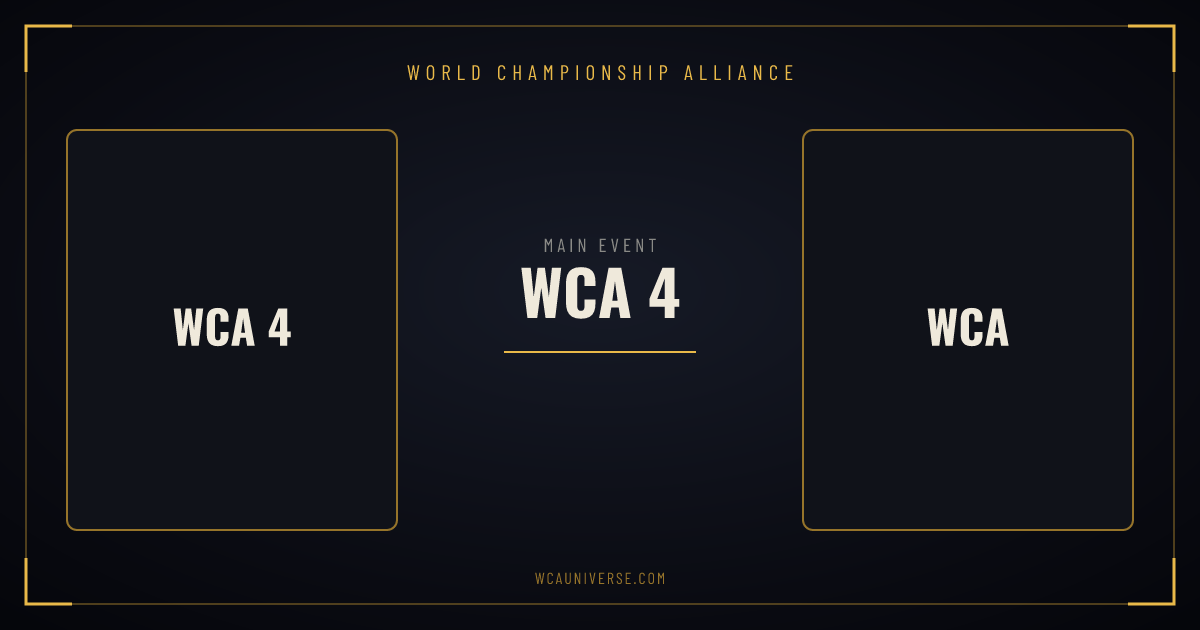
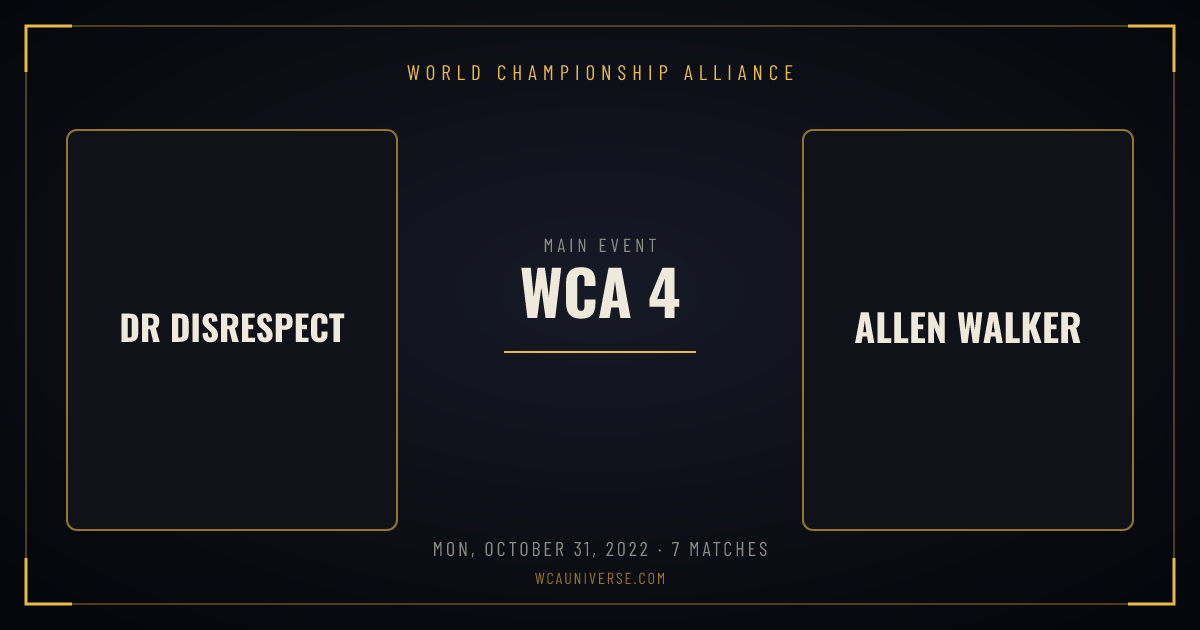
Rebuild share pages

diff --git a/s/event/57/index.html b/s/event/57/index.html
@@ -4,20 +4,20 @@
 <meta charset="utf-8">
 <meta name="viewport" content="width=device-width,initial-scale=1">
 <title>WCA 4, World Championship Alliance</title>
-<meta name="description" content="WCA 4, full card, results and final standings from World Championship Alliance.">
+<meta name="description" content="WCA 4, 7 matches. Full card, results and final standings.">
 <link rel="canonical" href="https://wcauniverse.com/s/event/57/">
 
 <meta property="og:type" content="article">
 <meta property="og:site_name" content="World Championship Alliance">
 <meta property="og:title" content="WCA 4">
-<meta property="og:description" content="WCA 4, full card, results and final standings from World Championship Alliance.">
+<meta property="og:description" content="WCA 4, 7 matches. Full card, results and final standings.">
 <meta property="og:url" content="https://wcauniverse.com/s/event/57/">
 <meta property="og:image" content="https://wcauniverse.com/s/event/57/card.png">
 <meta property="og:image:alt" content="WCA 4">
 
 <meta name="twitter:card" content="summary_large_image">
 <meta name="twitter:title" content="WCA 4">
-<meta name="twitter:description" content="WCA 4, full card, results and final standings from World Championship Alliance.">
+<meta name="twitter:description" content="WCA 4, 7 matches. Full card, results and final standings.">
 <meta name="twitter:image" content="https://wcauniverse.com/s/event/57/card.png">
 
 <link rel="icon" href="https://wcauniverse.com/icons/icon-192.png">
@@ -46,7 +46,7 @@
     <div class="kicker">Event</div>
     <h1>WCA 4</h1>
     <img class="hero" src="https://wcauniverse.com/s/event/57/card.png" alt="WCA 4">
-    <p>WCA 4, full card, results and final standings from World Championship Alliance.</p>
+    <p>WCA 4, 7 matches. Full card, results and final standings.</p>
     <a class="go" href="https://wcauniverse.com/archive?event=57">Open on WCA</a>
     <div class="wait">Taking you there…</div>
   </main>

diff --git a/s/event/58/index.html b/s/event/58/index.html
@@ -4,20 +4,20 @@
 <meta charset="utf-8">
 <meta name="viewport" content="width=device-width,initial-scale=1">
 <title>WCA 5, World Championship Alliance</title>
-<meta name="description" content="WCA 5, full card, results and final standings from World Championship Alliance.">
+<meta name="description" content="WCA 5, 6 matches. Full card, results and final standings.">
 <link rel="canonical" href="https://wcauniverse.com/s/event/58/">
 
 <meta property="og:type" content="article">
 <meta property="og:site_name" content="World Championship Alliance">
 <meta property="og:title" content="WCA 5">
-<meta property="og:description" content="WCA 5, full card, results and final standings from World Championship Alliance.">
+<meta property="og:description" content="WCA 5, 6 matches. Full card, results and final standings.">
 <meta property="og:url" content="https://wcauniverse.com/s/event/58/">
 <meta property="og:image" content="https://wcauniverse.com/s/event/58/card.png">
 <meta property="og:image:alt" content="WCA 5">
 
 <meta name="twitter:card" content="summary_large_image">
 <meta name="twitter:title" content="WCA 5">
-<meta name="twitter:description" content="WCA 5, full card, results and final standings from World Championship Alliance.">
+<meta name="twitter:description" content="WCA 5, 6 matches. Full card, results and final standings.">
 <meta name="twitter:image" content="https://wcauniverse.com/s/event/58/card.png">
 
 <link rel="icon" href="https://wcauniverse.com/icons/icon-192.png">
@@ -46,7 +46,7 @@
     <div class="kicker">Event</div>
     <h1>WCA 5</h1>
     <img class="hero" src="https://wcauniverse.com/s/event/58/card.png" alt="WCA 5">
-    <p>WCA 5, full card, results and final standings from World Championship Alliance.</p>
+    <p>WCA 5, 6 matches. Full card, results and final standings.</p>
     <a class="go" href="https://wcauniverse.com/archive?event=58">Open on WCA</a>
     <div class="wait">Taking you there…</div>
   </main>
